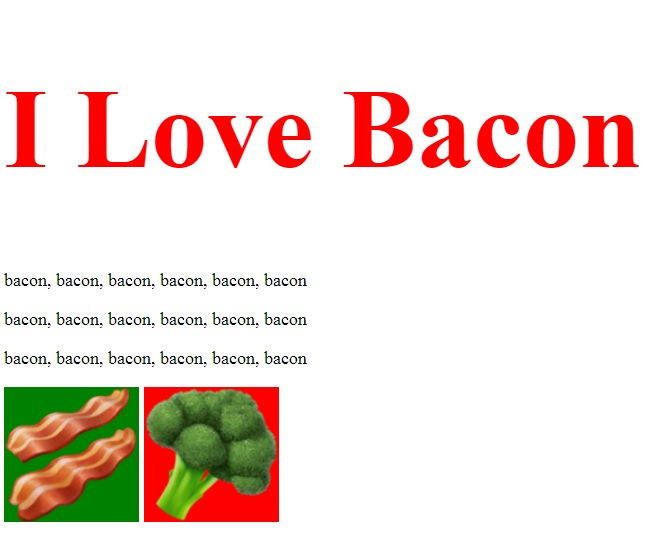
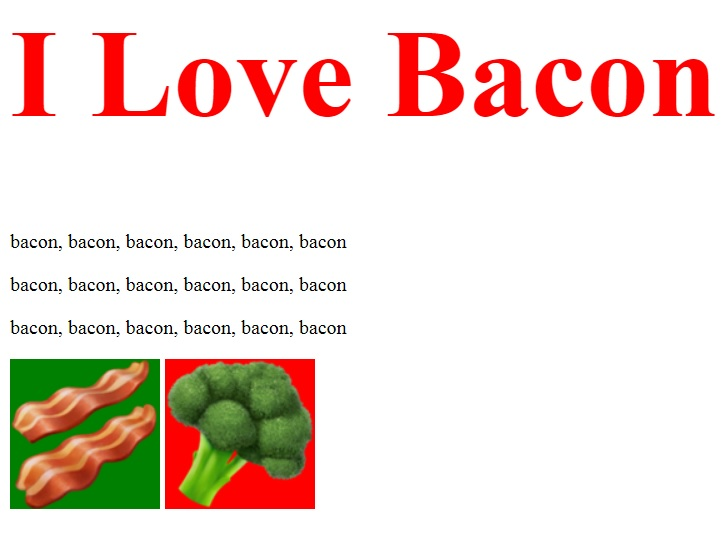
update doc

diff --git a/css/style.css b/css/style.css
@@ -83,7 +83,6 @@ body {
 .menu-toggle {
   display: block;
 }
-
 /*.menu-show {
   display: flex;
 }*/
@@ -179,7 +178,7 @@ body {
 }
 .portfolio img {
   width: 100%;
-  height: 200px;
+  height: 800px;
   object-fit: cover;
 }
 
@@ -231,9 +230,9 @@ footer {
     display: flex;
     justify-content: center;
     flex-wrap: nowrap;
-    gap: 20px;
+    gap: 5px;
   }
-  .intro-left {
+  .intro-right {
     width: 50%;
   }
   .intro-left {
@@ -259,14 +258,13 @@ footer {
     padding: 5px 0;
   }
 }
-@media (min-width: 900px) {
+@media (min-width: 936px) {
   .menu-toggle {
     display: none;
   }
   .header {
     position: fixed;
     width: 100%;
-    height: 72px;
   }
   .header-menu {
     position: static;
@@ -284,16 +282,17 @@ footer {
     display: flex;
     justify-content: center;
     align-self: center;
-    gap: 5px;
+    gap: 10px;
   }
   .intro-right {
     width: 60%;
   }
   .intro-left {
-    width: 25%;
+    width: 30%;
   }
   .code-example {
     width: 50%;
+    align-items: center;
   }
   .portfolio ul {
     display: grid;
@@ -302,6 +301,6 @@ footer {
   }
   .portfolio img {
     width: 100%;
-    height: 450px;
+    height: 375px;
   }
 }

diff --git a/index.html b/index.html
@@ -130,7 +130,11 @@
           <h2 class="section-title">Portfolio</h2>
           <ul>
             <li>
-              <img src="image/donation.jpg" alt="screen donation" />
+              <img
+                src="image/donation.jpg"
+                alt="screen donation"
+                class="box1"
+              />
               <h3>Form</h3>
               <a
                 href="https://zeinebbatyrbekova.github.io/donation/"
@@ -139,9 +143,8 @@
               >
             </li>
             <li>
-              <img src="image/bacon.jpg" alt="screen bacon" />
+              <img src="image/bacon.jpg" alt="screen bacon" class="box2" />
               <h3>Tag & Class selectors</h3>
-
               <a
                 href="https://zeinebbatyrbekova.github.io/donation/"
                 target="-blank"
@@ -150,7 +153,6 @@
             </li>
           </ul>
         </div>
-        >>>>>>> local
       </section>
       <section id="languages" class="languages section">
         <div class="container">
